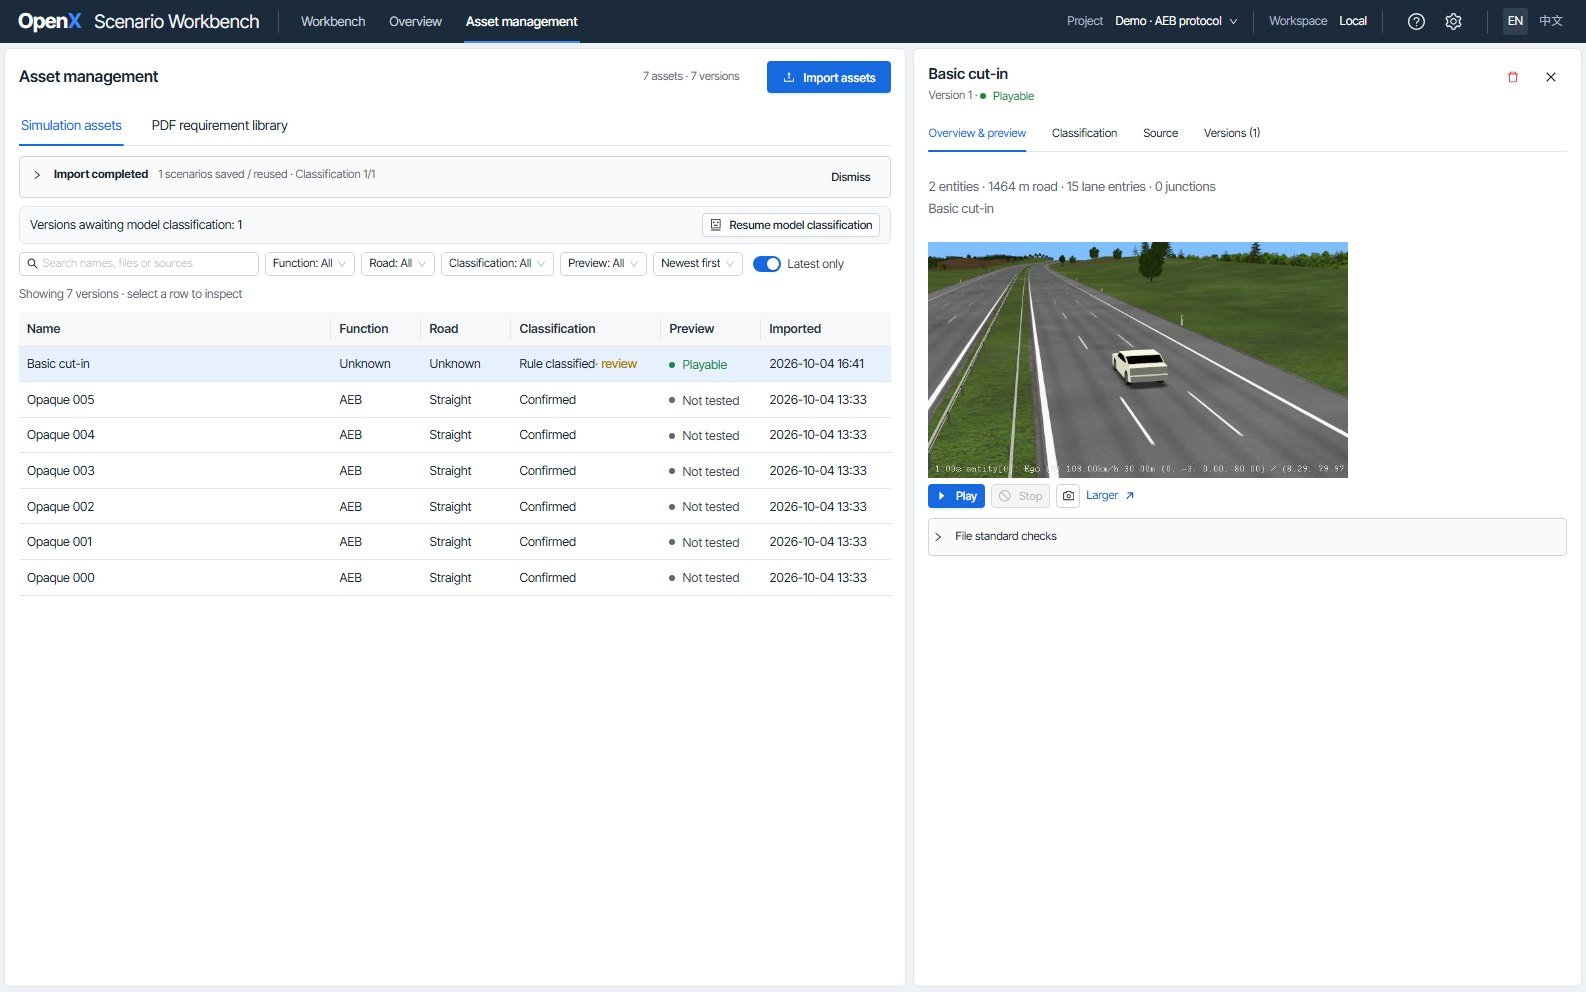
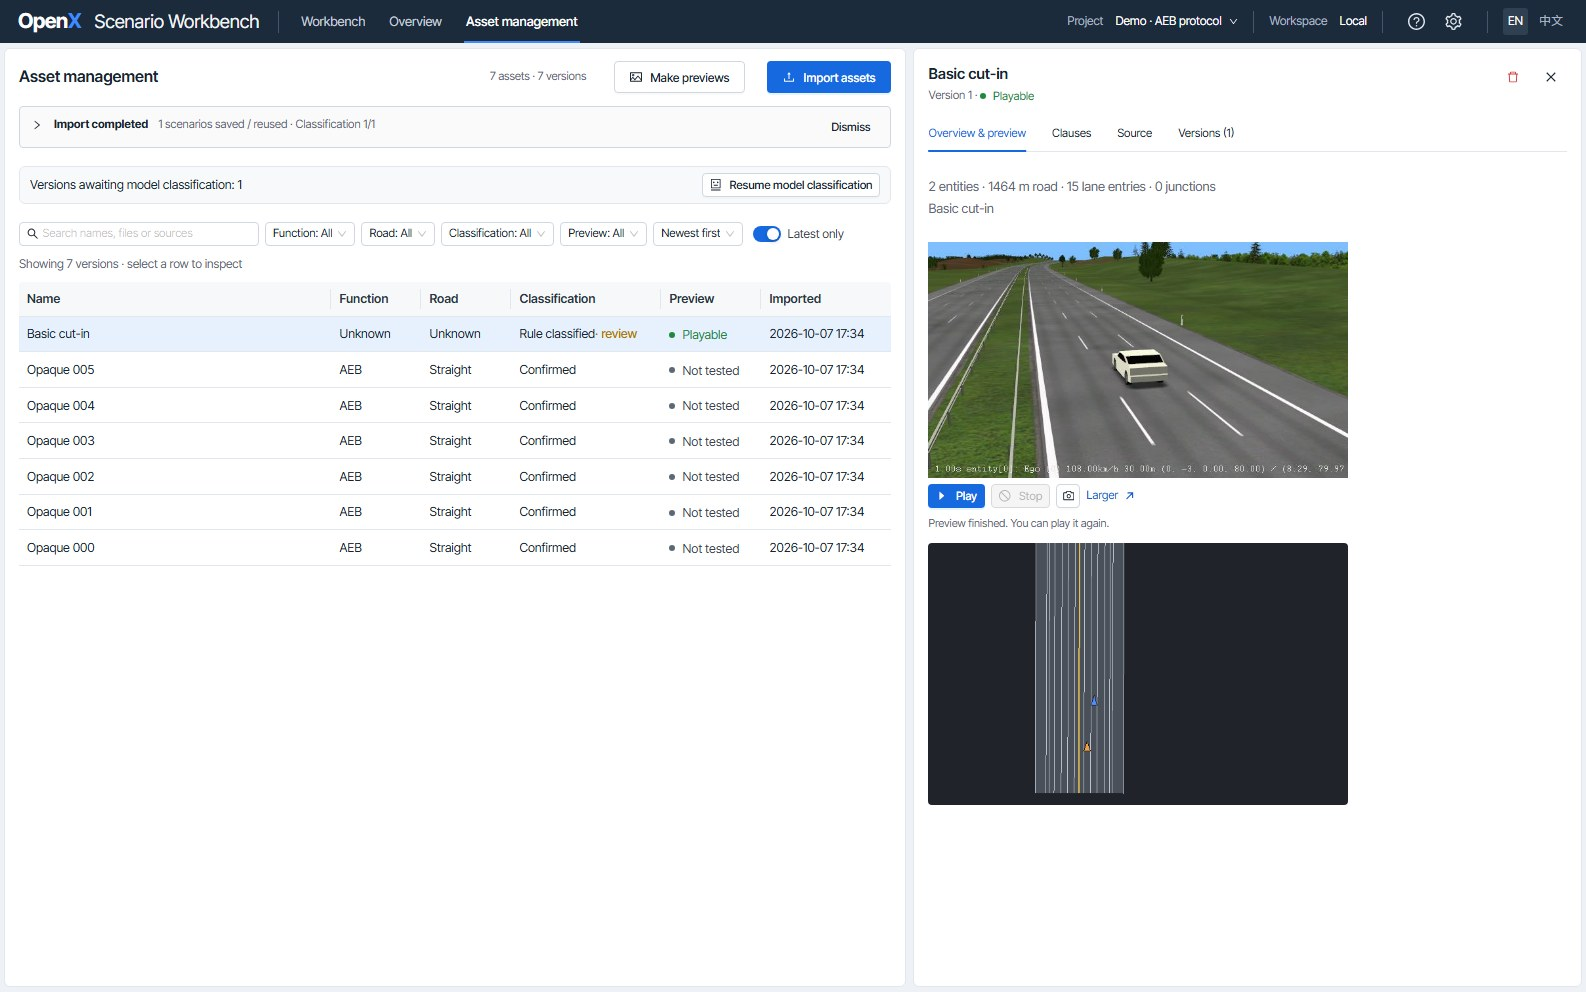
fix(web): show a version as playable as soon as its preview ends
After a run in asset management the detail header and the table kept "Not tested"
until the page was reloaded, although the service had recorded the outcome. The
player now tells its owner when a run ends, and the version and the list are read
again. The asset management screenshots show the current page (bound clauses,
batch previews, the road drawn from above) with the public esmini cut-in example.

diff --git a/web/src/components/PreviewPlayer.tsx b/web/src/components/PreviewPlayer.tsx
@@ -7,8 +7,9 @@ import { ArrowUpRight } from "./ArrowUpRight";
 
 const ACTIVE = new Set(["starting", "running"]);
 
-/** Real esmini frames only: a live MJPEG stream while playing, otherwise the saved still frame of this exact version. */
-export function PreviewPlayer({ cand, esmini, onSettings }: { cand: Pick<Candidate, "asset_id" | "version_id" | "has_frame"> & { compatibility?: string }; esmini: boolean; onSettings: () => void }) {
+/** Real esmini frames only: a live MJPEG stream while playing, otherwise the saved still frame of this exact version.
+ * `onPlayed` hears when a run ends, once the service has recorded whether the version plays. */
+export function PreviewPlayer({ cand, esmini, onSettings, onPlayed }: { cand: Pick<Candidate, "asset_id" | "version_id" | "has_frame"> & { compatibility?: string }; esmini: boolean; onSettings: () => void; onPlayed?: () => void }) {
   const { t } = useT();
   const [status, setStatus] = useState<PreviewStatus>({ state: "idle" });
   const [busy, setBusy] = useState(false);
@@ -32,6 +33,7 @@ export function PreviewPlayer({ cand, esmini, onSettings }: { cand: Pick<Candida
         setHasFrame(true);
         setFrameStamp(Date.now());
       }
+      if (wasLive.current && mine) onPlayed?.();
       wasLive.current = false;
       return;
     }

diff --git a/web/src/components/AssetDetail.tsx b/web/src/components/AssetDetail.tsx
@@ -94,7 +94,8 @@ export function AssetDetail({ version, busy, esmini, onSettings, onSelect, onClo
                     {detail.summary.description && <><br />{detail.summary.description}</>}
                   </p>
                 )}
-                <div className="asset-player"><PreviewPlayer cand={{ ...version, compatibility: v.compatibility, has_frame: detail.has_frame }} esmini={esmini} onSettings={onSettings} /></div>
+                <div className="asset-player"><PreviewPlayer cand={{ ...version, compatibility: v.compatibility, has_frame: detail.has_frame }} esmini={esmini} onSettings={onSettings}
+                  onPlayed={() => { load(); onChanged(); }} /></div>
                 {detail.summary && !detail.summary.road_file_missing && (
                   <img className="road-drawing" src={urls.roadDrawing(version)} alt={t("道路俯视图与参与者起点", "The road from above with where the participants start")} loading="lazy" />
                 )}

diff --git a/docs/images/README.md b/docs/images/README.md
@@ -1,22 +1,21 @@
 # Documentation images
 
 `workbench.jpg` / `workbench-en.jpg` and `assets.jpg` / `assets-en.jpg` are Chinese
-and English screenshots of the React workbench, refreshed on 2026-10-04 at
+and English screenshots of the React workbench, refreshed on 2026-10-07 at
 1586×992.
 
-They were captured against an isolated data folder created with
-`scripts/seed_demo_workspace.py` (authored assets, authored PDFs and reviewed
-typed requirements), with the pinned XSD registry installed and the public esmini
-cut-in example (MPL-2.0) imported and played once. The workbench shot shows a
-"modify and reuse" candidate whose standard check is still pending, because the
-authored parser fixtures are not XSD-valid. The asset shot shows a real frame
-rendered by esmini. No private assets, user project data or credentials appear.
+They were captured against the fixtures demo workspace (`scripts/seed_demo_workspace.py`:
+authored assets, authored PDFs and reviewed typed requirements), without an XSD
+registry. The workbench shot shows manual search with a "modify and reuse" candidate
+whose standard checks are still open. For the asset shot the public esmini cut-in
+example (MPL-2.0) was imported under **Asset management** and played once: a real
+frame rendered by esmini, with the road drawn from above. No private assets, user
+project data or credentials appear.
 
-To refresh: seed a new folder, run `openx-validate --install-schemas` and
-`openx-web` with `OPENX_DATA_DIR` pointing at it, import the public example under
-**Asset management**, and capture both languages through the normal interface.
-Keep evidence and check states visible; never relabel a pending check as a
-successful reuse or preview.
+To refresh: start `openx-web` on a freshly seeded folder (`OPENX_DATA_DIR`), import
+the public example under **Asset management**, play it, and capture both languages
+through the normal interface. Keep evidence and check states visible; never relabel a
+pending check as a successful reuse or preview.
 
 `demo-en.gif` / `demo-zh.gif` step through four requirements of the authored
 [reuse benchmark](../../examples/reuse-benchmark/) in the running workbench: two
